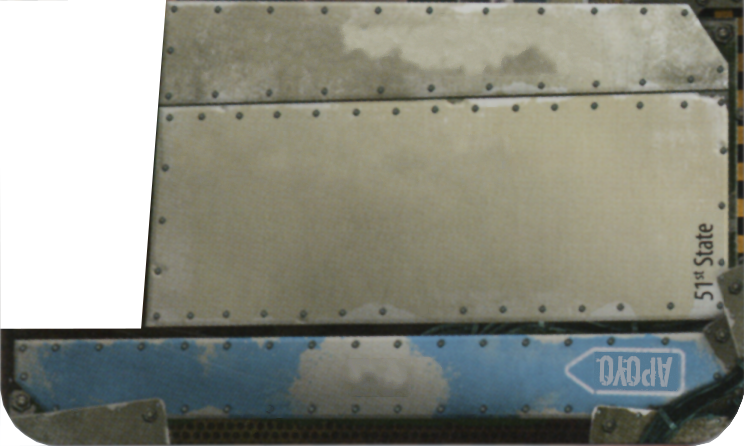
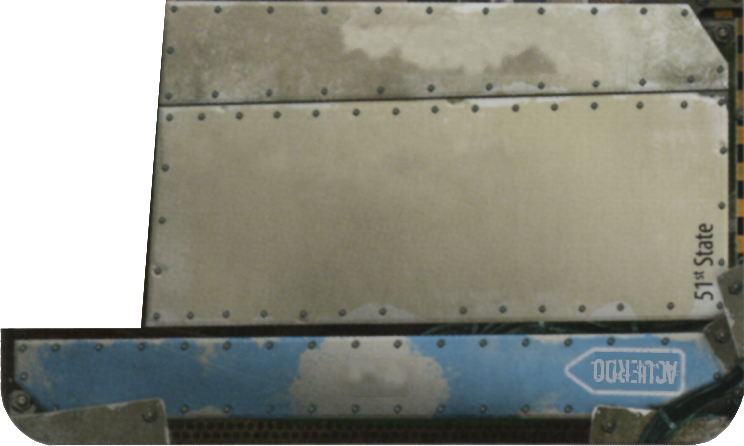
Completed the translation, last fixes added

Changed region(s): [[0.0618, 0.991, 0.9583, 1.0], [0.7728, 0.787, 0.9274, 0.8744], [0.0, 0.7287, 0.0309, 0.7578]]

diff --git a/index.js b/index.js
@@ -6,6 +6,8 @@ let img = 1;
 const width = 744;
 const height = 446;
 const initTextWidth = 180;
+let initTextHeight = 135;
+const initMaxWidth = 470;
 
 const canvas = createCanvas(width, height);
 const ctx = canvas.getContext("2d");
@@ -38,7 +40,11 @@ const drawBackground = (data) => {
     case "New Era":
       background = images["base-newera"];
       break;
-    default:
+    case "Scavengers":
+      background = images["base-scavengers"];
+      break;
+    case "Promo Set":
+      background = images["base-promoset"];
       break;
   }
   ctx.clearRect(0, 0, width, height);
@@ -60,7 +66,7 @@ let amount = 0;
 const drawCardText = (data) => {
   amount = 0;
   let initText = "";
-  let initTextHeight = 135;
+  initTextHeight = 135;
   let initTextSize = 0;
   const lineHeight = 35;
 
@@ -74,7 +80,7 @@ const drawCardText = (data) => {
       data.production,
       initTextWidth + initTextSize,
       135,
-      450 - initTextSize,
+      initMaxWidth - initTextSize,
       lineHeight,
       initTextSize
     );
@@ -90,7 +96,7 @@ const drawCardText = (data) => {
       data.openprod,
       initTextWidth + initTextSize,
       135,
-      450 - initTextSize,
+      initMaxWidth - initTextSize,
       lineHeight,
       initTextSize
     );
@@ -104,7 +110,7 @@ const drawCardText = (data) => {
       data.feature,
       initTextWidth + initTextSize,
       135,
-      450 - initTextSize,
+      initMaxWidth - initTextSize,
       lineHeight,
       initTextSize
     );
@@ -120,7 +126,7 @@ const drawCardText = (data) => {
       data.action,
       initTextWidth + initTextSize,
       initTextHeight,
-      450 - initTextSize,
+      initMaxWidth - initTextSize,
       lineHeight,
       initTextSize
     );
@@ -136,10 +142,15 @@ const drawCardText = (data) => {
       data.buildingbonus,
       initTextWidth + initTextSize,
       initTextHeight,
-      450 - initTextSize,
+      initMaxWidth - initTextSize,
       lineHeight,
       initTextSize
     );
+  }
+
+  if (data.shield) {
+    let shield = images["shield"];
+    ctx.drawImage(shield, 744 - 104, -59.5, 116, 119);
   }
 };
 
@@ -168,7 +179,7 @@ const drawDeal = (data) => {
       dealImage = images["b"];
       break;
     case "Blue Arrow":
-      dealImage = images["aw"];
+      dealImage = images["ab"];
       break;
     case "Fuel":
       dealImage = images["f"];
@@ -186,10 +197,25 @@ const drawDeal = (data) => {
       dealImage = images["g"];
       break;
     case "Red Arrow":
-      dealImage = images["b"];
+      dealImage = images["ar"];
       break;
     case "Worker":
       dealImage = images["w"];
+      break;
+    case "Gear":
+      dealImage = images["ge"];
+      break;
+    case "Develop":
+      dealImage = images["d"];
+      break;
+    case "Grey Arrow":
+      dealImage = images["ag"];
+      break;
+    case "Shield":
+      dealImage = images["s"];
+      break;
+    case "Ruins":
+      dealImage = images["r"];
       break;
   }
 
@@ -236,7 +262,7 @@ const getTextLine = (context, text, maxWidth, tabSize) => {
       testWidth = 1000;
     }
 
-    if (testWidth > maxWidthTest && n > 0) {
+    if (testWidth > maxWidthTest && n > 0 && testLine.length > 0) {
       lines.push(testLine);
       line = "";
     } else {
@@ -259,7 +285,7 @@ const wrapText = (context, text, x, y, maxWidth, lineHeight, tabSize) => {
   var line = "";
   var firstLine = true;
   var lines = 1;
-  let initTextHeight = 135;
+
   let initImgPositionX = 180;
   let currentImgPositionX = 0;
   let first = true;
@@ -268,13 +294,20 @@ const wrapText = (context, text, x, y, maxWidth, lineHeight, tabSize) => {
 
   let textLines = getTextLine(context, text, maxWidth, tabSize);
 
+  for (let i = 0; i < textLines.length; i++) {
+    let line = textLines[i];
+    line = line.replace(/\(([^)]+)\)/g, "       ");
+    if (i == 1) {
+      x = x - tabSize;
+    }
+    context.fillText(line, x, y - lineHeight + lineHeight * (i + 1));
+    lines = i + 1;
+  }
+
   textLines.forEach((line) => {
     const matches = [...line.matchAll(/\(([^)]+)\)/g)];
     currentImgPositionX = 0;
     first = true;
-    if (amount > 1) {
-      initTextHeight = initTextHeight + 35;
-    }
     matches.forEach((icon) => {
       let image = getIcon(icon[1]);
       let { index, input } = icon;
@@ -298,22 +331,13 @@ const wrapText = (context, text, x, y, maxWidth, lineHeight, tabSize) => {
     });
     j++;
   });
-
-  for (let i = 0; i < textLines.length; i++) {
-    let line = textLines[i];
-    line = line.replace(/\(([^)]+)\)/g, "       ");
-    if (i == 1) {
-      x = x - tabSize;
-    }
-    context.fillText(line, x, y - lineHeight + lineHeight * (i + 1));
-  }
-
   return lineHeight * lines;
 };
 
 fs.createReadStream("data.csv")
   .pipe(csv())
   .on("data", (row) => {
+    console.log(`Processing ${row.name}`);
     for (let i = 1; i <= row.quantity; i++) {
       drawBackground(row);
       drawTitle(row);
